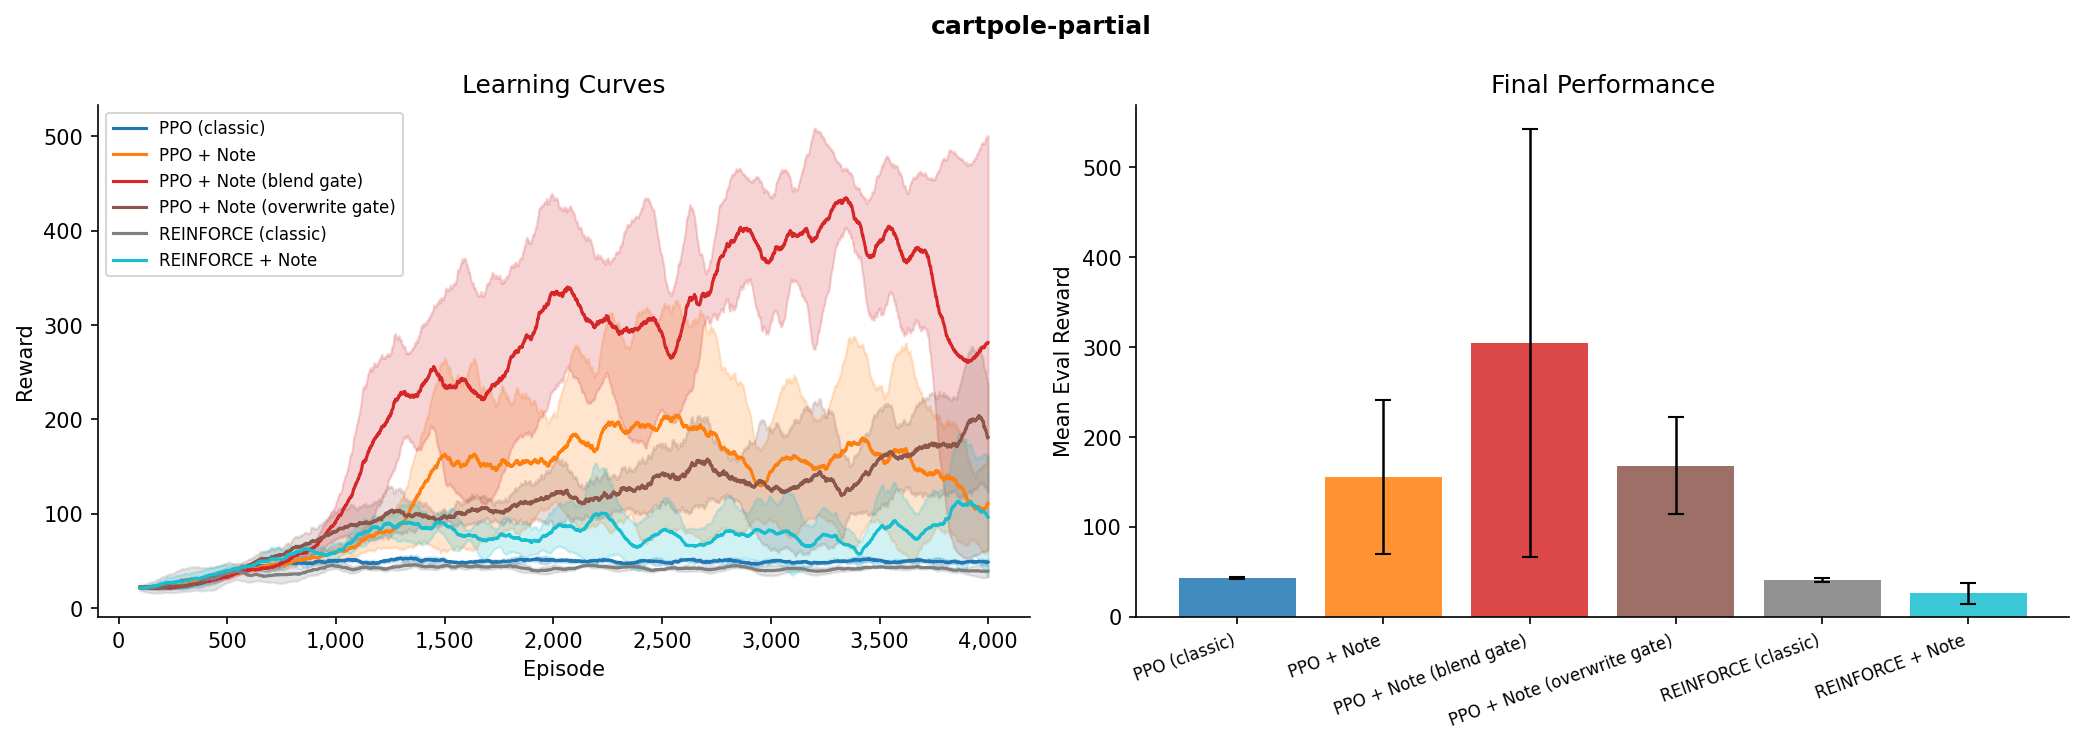
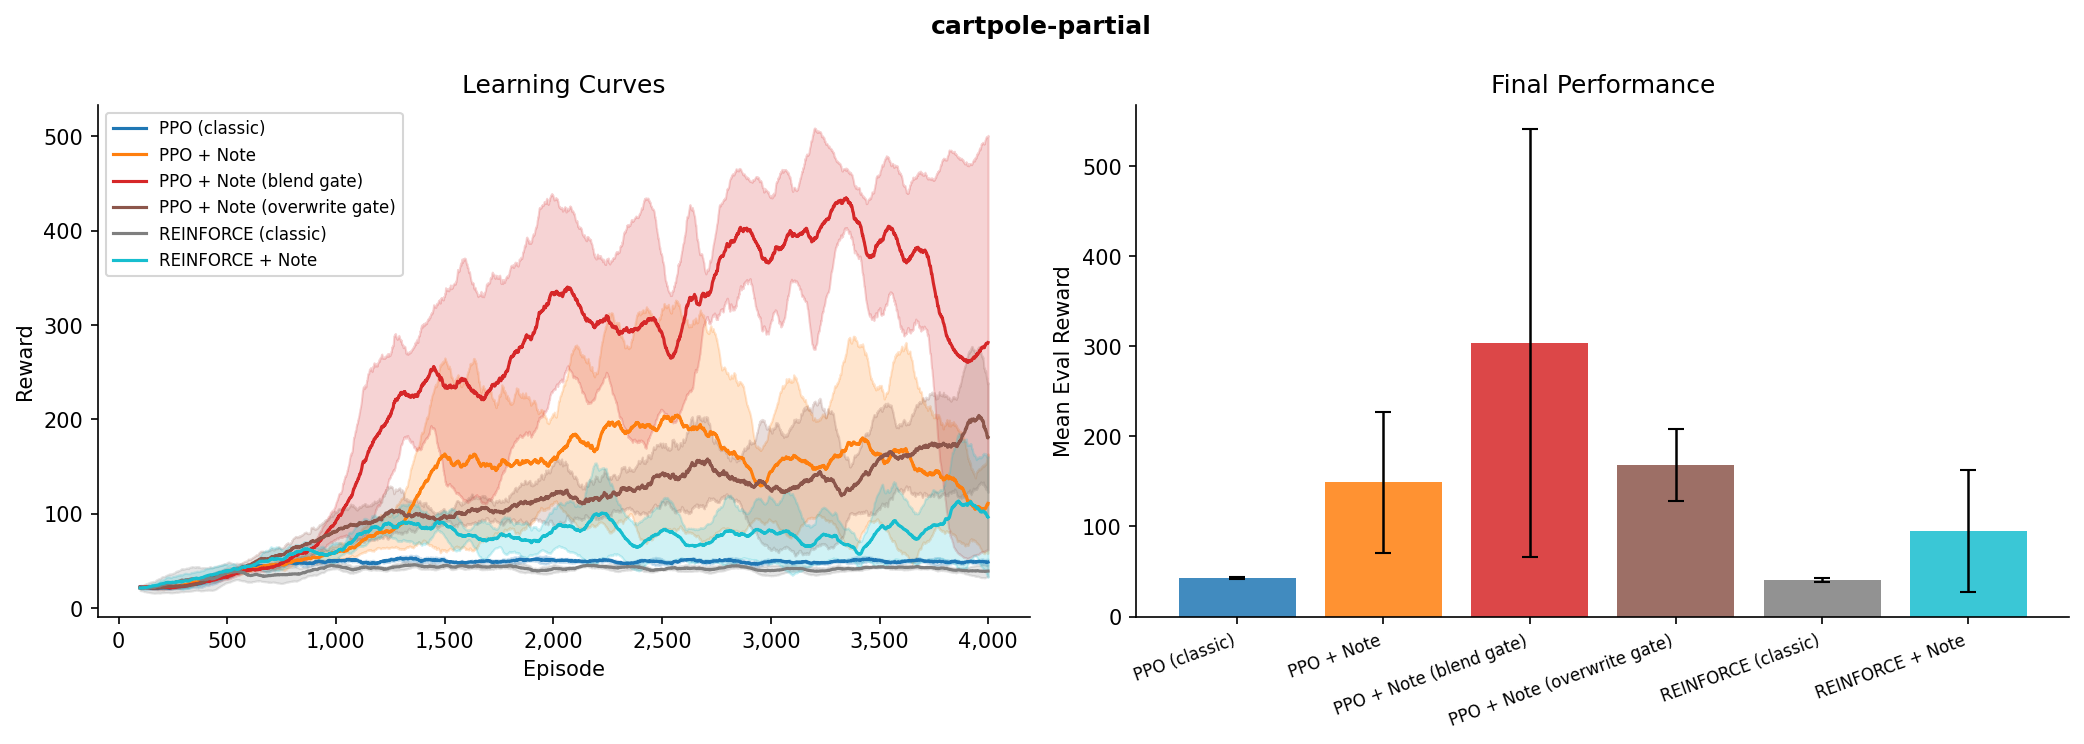
REINFORCE evaluation bug fix + reevaluation

Changed region(s): [[0.9045, 0.711, 0.9981, 0.8038], [0.6238, 0.6183, 0.6862, 0.6492]]

diff --git a/agents/reinforce.py b/agents/reinforce.py
@@ -161,7 +161,8 @@ class REINFORCEAgent:
         with torch.no_grad():
             if self.n_notes is not None:
                 state_with_notes = torch.cat((state, torch.from_numpy(self.note_array).float().unsqueeze(0).to(self.device)), dim=1)
-                probs, _ = self.policy_network(state_with_notes)
+                probs, note_values = self.policy_network(state_with_notes)
+                self.note_array = note_values.detach().cpu().numpy().flatten()
             else:
                 probs = self.policy_network(state)
             
